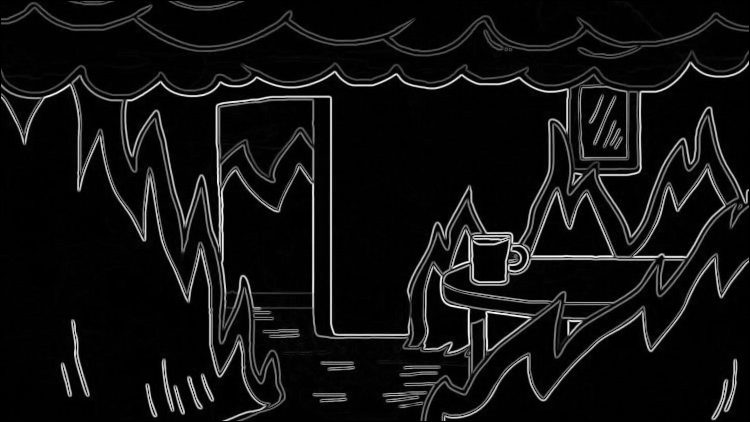
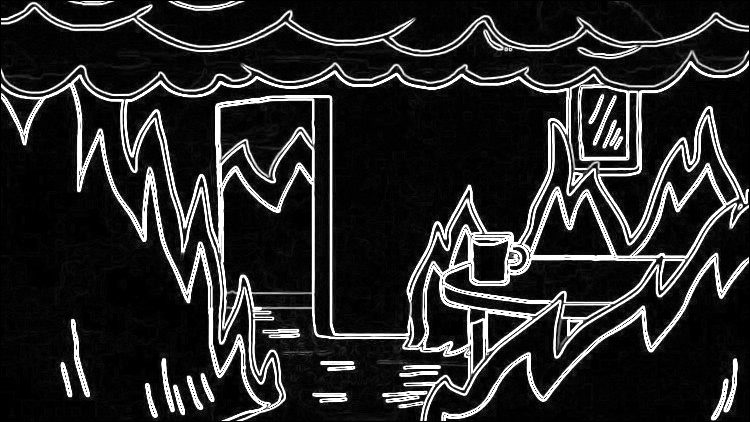
Something is done

diff --git a/CVLib/Source/SCompVision.cpp b/CVLib/Source/SCompVision.cpp
@@ -55,23 +55,22 @@ namespace CompVision
 
 	cv::Mat ApplyFilter(const cv::Mat& image, const std::vector<std::vector<int32_t>>& kernel)
 	{
-		int32_t rows = image.rows;
-		int32_t cols = image.cols;
-		int32_t kernel_size = 3;
-		int32_t k = kernel_size / 2;
+		int32_t kernelSize = static_cast<int32_t>(kernel.size());
+		int32_t pad = kernelSize / 2;
 
-		cv::Mat result = cv::Mat::zeros(rows, cols, CV_64F);
+		cv::Mat result = cv::Mat::zeros(image.size(), CV_64F);
 
-		for (int32_t i = k; i < rows - k; i++)
+		for (int32_t i = pad; i < image.rows - pad; i++)
 		{
-			for (int32_t j = k; j < cols - k; j++)
+			for (int32_t j = pad; j < image.cols - pad; j++)
 			{
 				double sum = 0.0;
-				for (int32_t u = -k; u <= k; u++)
+				for (int32_t ki = -pad; ki <= pad; ki++)
 				{
-					for (int32_t v = -k; v <= k; v++)
+					for (int32_t kj = -pad; kj <= pad; kj++)
 					{
-						sum += image.at<uchar>(i + u, j + v) * kernel[u + k][v + k];
+						int32_t pixelVal = image.at<uchar>(i + ki, j + kj);
+						sum += pixelVal * kernel[ki + pad][kj + pad];
 					}
 				}
 				result.at<double>(i, j) = sum;
@@ -81,8 +80,26 @@ namespace CompVision
 		return result;
 	}
 
+	cv::Mat GradientMagnitude(const cv::Mat& gradX, const cv::Mat& gradY)
+	{
+		cv::Mat magnitude = cv::Mat::zeros(gradX.size(), CV_64F);
+		for (int32_t i = 0; i < gradX.rows; i++)
+		{
+			for (int32_t j = 0; j < gradX.cols; j++)
+			{
+				double gx = gradX.at<double>(i, j);
+				double gy = gradY.at<double>(i, j);
+				magnitude.at<double>(i, j) = std::sqrt(gx * gx + gy * gy);
+			}
+		}
 
-	void EdgeDetectionSobel(const cv::Mat& graysclaleImage, cv::Mat& outGrayscale)
+		//cv::normalize(magnitude, magnitude, 0, 255, cv::NORM_MINMAX);
+		magnitude.convertTo(magnitude, CV_8U);
+		return magnitude;
+	}
+
+
+	void EdgeDetectionSobel(const cv::Mat& grayscaleImage, cv::Mat& outGrayscale)
 	{
 		std::vector<std::vector<int32_t>> sobelX = {
 			{-1, 0, 1},
@@ -96,22 +113,143 @@ namespace CompVision
 			{ 1,  2,  1}
 		};
 
-		cv::Mat gradX = ApplyFilter(graysclaleImage, sobelX);
-		cv::Mat gradY = ApplyFilter(graysclaleImage, sobelY);
+		cv::Mat gradX = ApplyFilter(grayscaleImage, sobelX);
+		cv::Mat gradY = ApplyFilter(grayscaleImage, sobelY);
 
-		cv::Mat sobelMagnitude = cv::Mat::zeros(graysclaleImage.size(), CV_64F);
-		for (int32_t i = 0; i < gradX.rows; i++)
+
+		outGrayscale = GradientMagnitude(gradX, gradY);
+	}
+
+	void EdgeDetectionScharr(const cv::Mat& grayscaleImage, cv::Mat& outGrayscale)
+	{
+		std::vector<std::vector<int32_t>> scharrX = {
+			{-3, 0, 3},
+			{-10, 0, 10},
+			{-3, 0, 3}
+		};
+
+		std::vector<std::vector<int32_t>> scharrY = {
+			{-3, -10, -3},
+			{ 0,  0,  0},
+			{ 3,  10,  3}
+		};
+
+		cv::Mat gradX = ApplyFilter(grayscaleImage, scharrX);
+		cv::Mat gradY = ApplyFilter(grayscaleImage, scharrY);
+
+
+		outGrayscale = GradientMagnitude(gradX, gradY);
+	}
+
+	void EdgeDetectionLaplacian(const cv::Mat& grayscaleImage, cv::Mat& outGrayscale)
+	{
+		std::vector<std::vector<int32_t>> laplacianKernel = {
+			{ 0,  1,  0},
+			{ 1, -4,  1},
+			{ 0,  1,  0}
+		};
+
+		outGrayscale = ApplyFilter(grayscaleImage, laplacianKernel);
+
+		cv::normalize(outGrayscale, outGrayscale, 0, 255, cv::NORM_MINMAX);
+		outGrayscale.convertTo(outGrayscale, CV_8U);
+	}
+
+	void EdgeDetectionCanny(const cv::Mat& grayscaleImage, cv::Mat& outEdges, double lowThreshold, double highThreshold)
+	{
+
+		// Step 2: Reduce noise with a Gaussian filter
+		cv::Mat blurredImage;
+		cv::GaussianBlur(grayscaleImage, blurredImage, cv::Size(5, 5), 1.4);
+
+		// Step 3: Compute gradients using Sobel operator
+		cv::Mat gradX, gradY;
+		cv::Sobel(blurredImage, gradX, CV_32F, 1, 0, 3);
+		cv::Sobel(blurredImage, gradY, CV_32F, 0, 1, 3);
+
+		// Step 4: Calculate gradient magnitude and direction
+		cv::Mat magnitude, direction;
+		cv::cartToPolar(gradX, gradY, magnitude, direction, true); // Use true for degrees
+
+		// Step 5: Non-maximum suppression
+		cv::Mat nonMaxSuppressed = cv::Mat::zeros(magnitude.size(), CV_32F);
+		for (int y = 1; y < magnitude.rows - 1; ++y)
 		{
-			for (int32_t j = 0; j < gradX.cols; j++)
+			for (int x = 1; x < magnitude.cols - 1; ++x)
 			{
-				double gx = gradX.at<double>(i, j);
-				double gy = gradY.at<double>(i, j);
-				sobelMagnitude.at<double>(i, j) = std::sqrt(gx * gx + gy * gy);
+				float angle = direction.at<float>(y, x);
+				float q = 255; // Quantized gradient magnitude
+				float r = 255; // Right neighbor
+
+				// Determine neighbors based on the angle
+				if ((angle >= 0 && angle < 22.5) || (angle >= 157.5 && angle <= 180))
+				{
+					q = magnitude.at<float>(y, x + 1);
+					r = magnitude.at<float>(y, x - 1);
+				}
+				else if (angle >= 22.5 && angle < 67.5)
+				{
+					q = magnitude.at<float>(y - 1, x + 1);
+					r = magnitude.at<float>(y + 1, x - 1);
+				}
+				else if (angle >= 67.5 && angle < 112.5)
+				{
+					q = magnitude.at<float>(y - 1, x);
+					r = magnitude.at<float>(y + 1, x);
+				}
+				else if (angle >= 112.5 && angle < 157.5)
+				{
+					q = magnitude.at<float>(y - 1, x - 1);
+					r = magnitude.at<float>(y + 1, x + 1);
+				}
+
+				// Suppress non-maxima
+				if (magnitude.at<float>(y, x) >= q && magnitude.at<float>(y, x) >= r)
+				{
+					nonMaxSuppressed.at<float>(y, x) = magnitude.at<float>(y, x);
+				}
+				else
+				{
+					nonMaxSuppressed.at<float>(y, x) = 0;
+				}
 			}
 		}
 
-		cv::normalize(sobelMagnitude, sobelMagnitude, 0, 255, cv::NORM_MINMAX);
-		sobelMagnitude.convertTo(sobelMagnitude, CV_8U);
-		outGrayscale = sobelMagnitude;
+		// Step 6: Double thresholding
+		cv::Mat thresholded;
+		cv::threshold(nonMaxSuppressed, thresholded, lowThreshold, 255, cv::THRESH_BINARY);
+
+		// Step 7: Edge tracking by hysteresis
+		outEdges = cv::Mat::zeros(thresholded.size(), CV_8U);
+		for (int y = 1; y < thresholded.rows - 1; ++y)
+		{
+			for (int x = 1; x < thresholded.cols - 1; ++x)
+			{
+				if (thresholded.at<float>(y, x) == 255)
+				{
+					outEdges.at<uchar>(y, x) = 255; // Strong edge
+				}
+				else if (thresholded.at<float>(y, x) > lowThreshold)
+				{
+					// Check surrounding pixels for strong edges
+					bool hasStrongEdge = false;
+					for (int dy = -1; dy <= 1; ++dy)
+					{
+						for (int dx = -1; dx <= 1; ++dx)
+						{
+							if (outEdges.at<uchar>(y + dy, x + dx) == 255)
+							{
+								hasStrongEdge = true;
+								break;
+							}
+						}
+						if (hasStrongEdge) break;
+					}
+					outEdges.at<uchar>(y, x) = hasStrongEdge ? 255 : 0; // Connect to strong edge or discard
+				}
+			}
+		}
+
 	}
+
 }

diff --git a/CVLib/Source/CVTest.cpp b/CVLib/Source/CVTest.cpp
@@ -40,10 +40,26 @@ namespace CVTest
 			return;
 		}
 		cv::imshow("Original Image", image);
+
 		cv::Mat sobelImage;
 		CompVision::EdgeDetectionSobel(image, sobelImage);
 		cv::imshow("Sobel Image", sobelImage);
 		cv::imwrite(("sobel_" + filePath).c_str(), sobelImage);
+
+		cv::Mat scharrImage;
+		CompVision::EdgeDetectionScharr(image, scharrImage);
+		cv::imshow("Scharr Image", scharrImage);
+		cv::imwrite(("scharr_" + filePath).c_str(), scharrImage);
+
+		cv::Mat laplacianImage;
+		CompVision::EdgeDetectionLaplacian(image, laplacianImage);
+		cv::imshow("Laplacian Image", laplacianImage);
+		cv::imwrite(("laplacian_" + filePath).c_str(), laplacianImage);
+
+		cv::Mat cannyImage;
+		CompVision::EdgeDetectionCanny(image, cannyImage, 50, 150);
+		cv::imshow("Canny Image", cannyImage);
+		cv::imwrite(("canny_" + filePath).c_str(), cannyImage);
 		
 
 		cv::Mat imageB;
@@ -58,13 +74,18 @@ namespace CVTest
 		cv::imshow("Sobel Built In", sobel);
 
 		cv::Mat scharrX, scharrY, scharr;
-		cv::Sobel(image, scharrX, CV_64F, 1, 0);
-		cv::Sobel(image, scharrY, CV_64F, 0, 1);
-		cv::magnitude(scharrX, scharrY, scharr);
+		cv::Mat absScharrX, absScharrY;
+		cv::Scharr(image, scharrX, CV_64F, 1, 0);
+		cv::Scharr(image, scharrY, CV_64F, 0, 1);
+		cv::convertScaleAbs(scharrX, absScharrX);
+		cv::convertScaleAbs(scharrY, absScharrY);
+		cv::addWeighted(absScharrX, 0.5, absScharrY, 0.5, 0, scharr);
 		cv::imshow("Scharr Built In", scharr);
 
 		cv::Mat laplace;
 		cv::Laplacian(image, laplace, CV_64F);
+		cv::normalize(laplace, laplace, 0, 255, cv::NORM_MINMAX);
+		laplace.convertTo(laplace, CV_8U);
 		cv::imshow("Laplacian Built In", laplace);
 
 		cv::Mat canny;

diff --git a/CVLib/Source/SCompVision.hpp b/CVLib/Source/SCompVision.hpp
@@ -1,8 +1,14 @@
 #pragma once
-#include <opencv2/opencv.hpp>
+#include "opencv2/opencv.hpp"
 
 namespace CompVision
 {
+	// Task 1
 	void EqualizeGrayscaleHistogram(const cv::Mat& grayscaleImage, cv::Mat& outGrayscale);
-	void EdgeDetectionSobel(const cv::Mat& graysclaleImage, cv::Mat& outGrayscale);
+
+	// Task5
+	void EdgeDetectionSobel(const cv::Mat& grayscaleImage, cv::Mat& outGrayscale);
+	void EdgeDetectionScharr(const cv::Mat& grayscaleImage, cv::Mat& outGrayscale);
+	void EdgeDetectionLaplacian(const cv::Mat& grayscaleImage, cv::Mat& outGrayscale);
+	void EdgeDetectionCanny(const cv::Mat& grayscaleImage, cv::Mat& outEdges, double lowThreshold, double highThreshold);
 }
